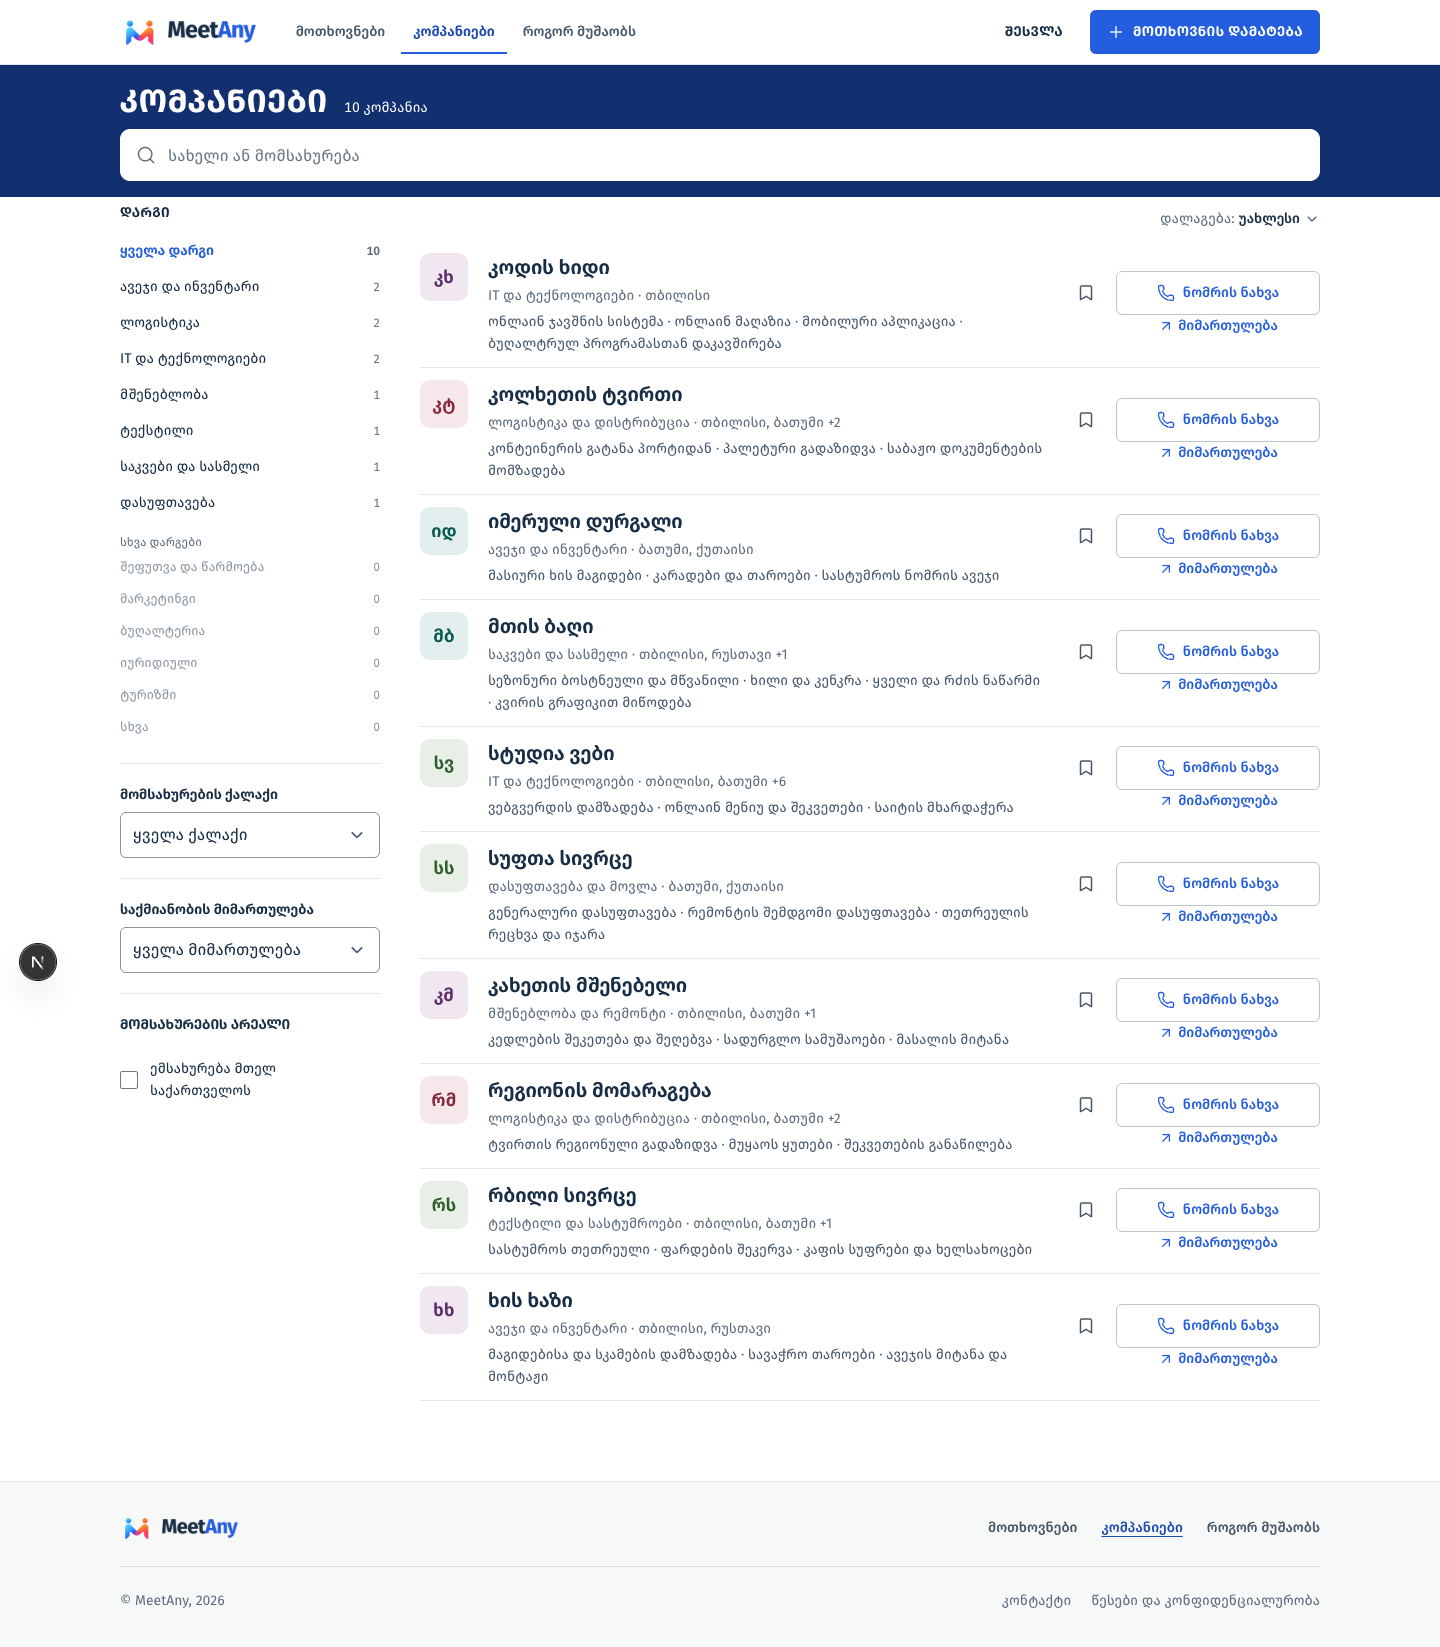
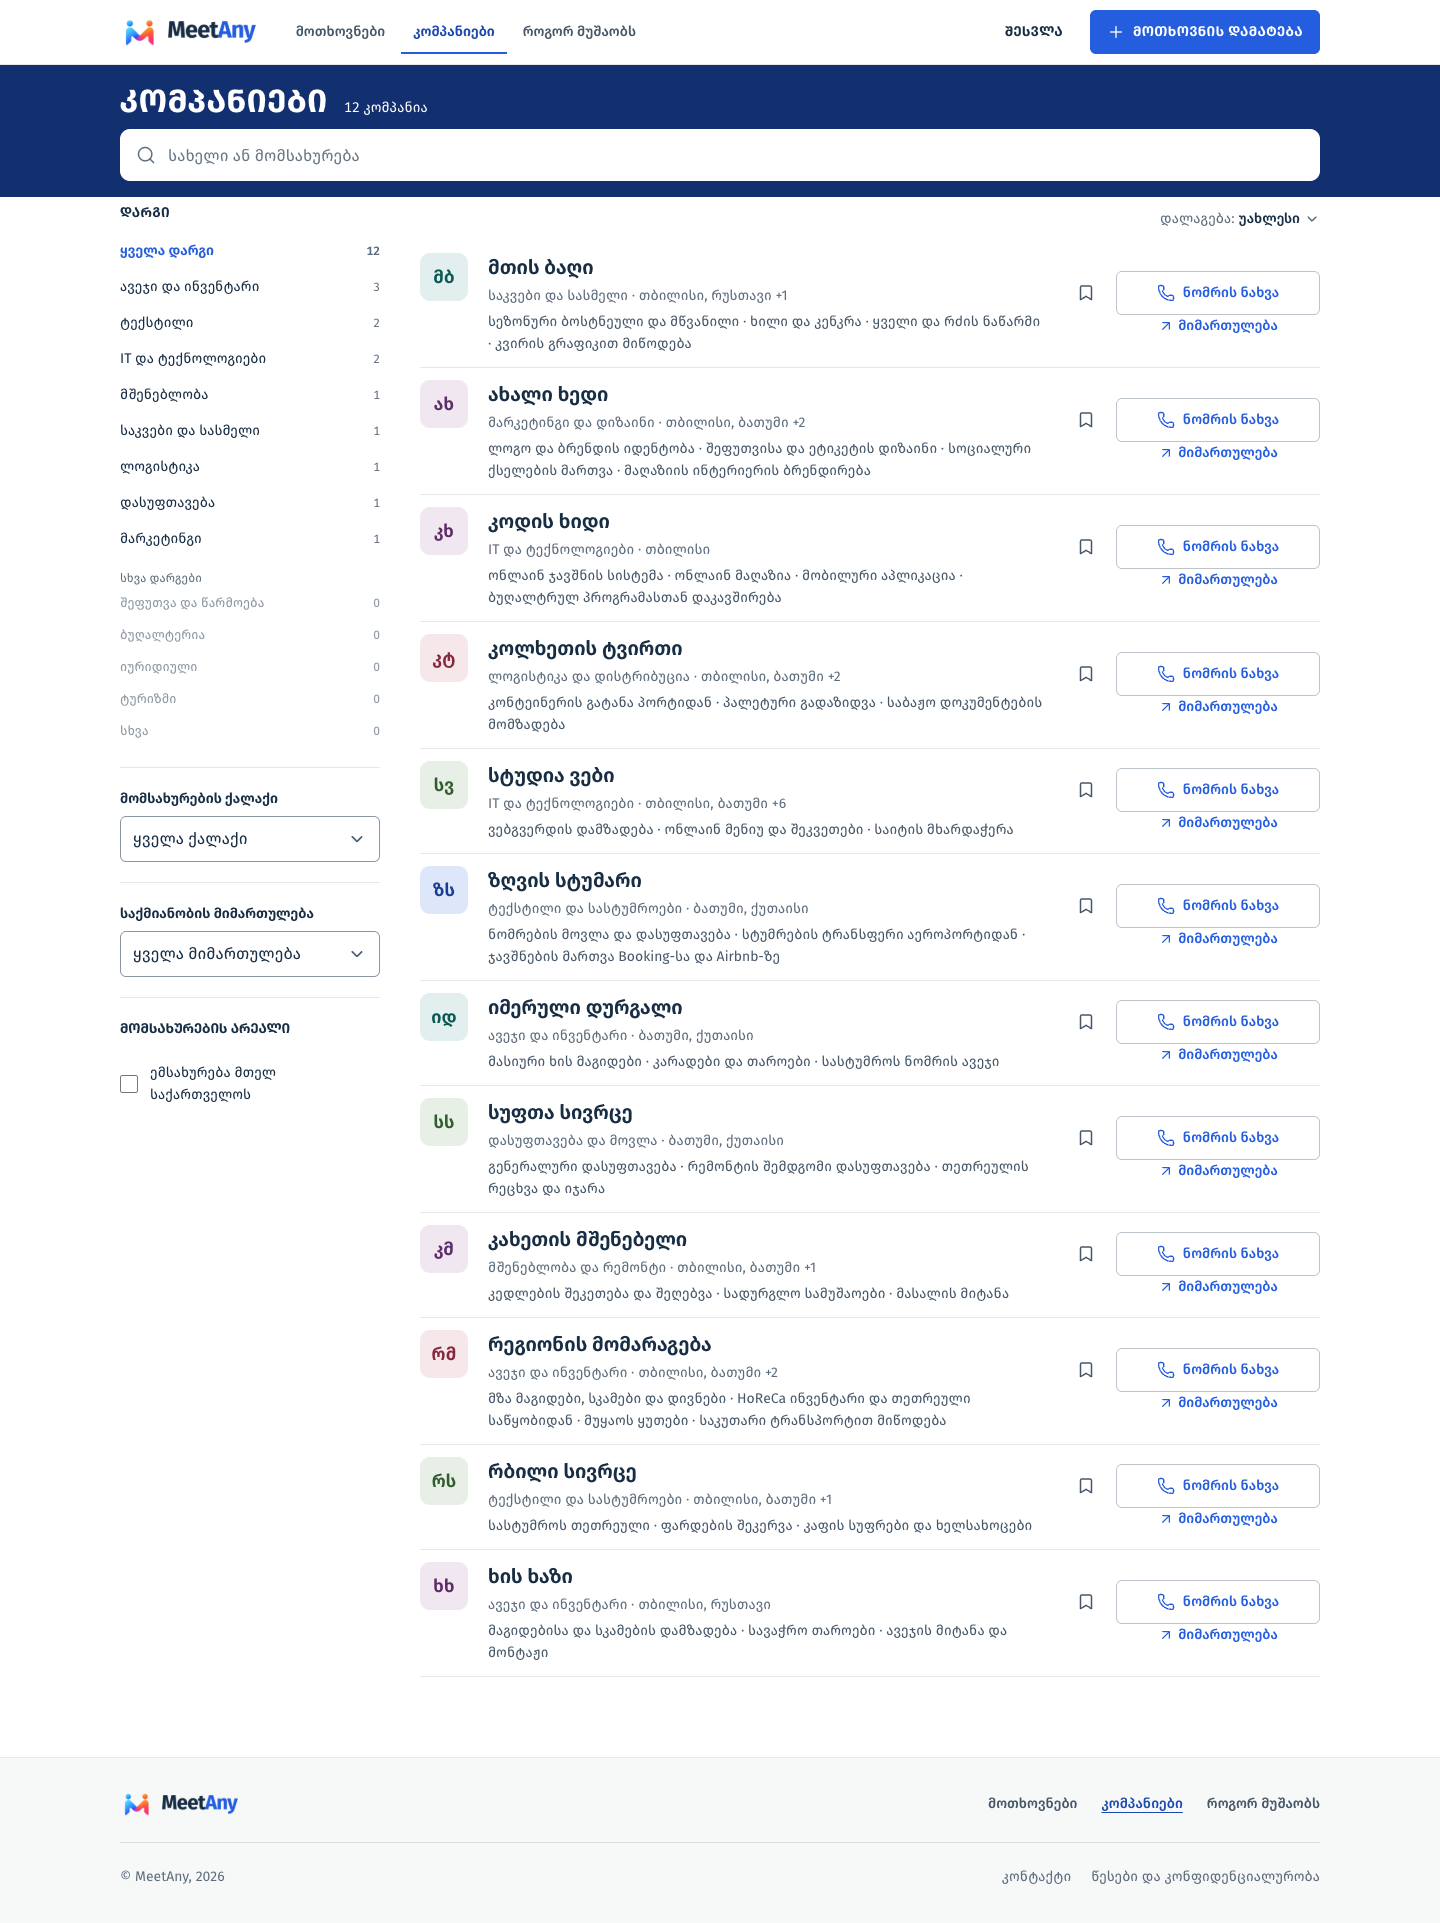
P11 T11.8d: demo content round 4 — varied offer counts, twelve companies
DevApp-Thread: დემო-შინაარსი 4

diff --git a/web/qa/DEMO-CONTENT-GE.md b/web/qa/DEMO-CONTENT-GE.md
@@ -156,3 +156,24 @@
 **#1 მიზეზი — UI, არა მონაცემი.** 6-ვე (ახლა 10-ვე) კომპანიას `phone` ჰქონდა; სტუმრისთვის `/api/db/profiles?select=id,phone` → 200. პროფილზე „ნომრის ნახვა“ იხატება მხოლოდ მეორე, ცალკე fetch-ის შემდეგ (`usePublicPhone`, `CompanyProfilePageContent.tsx:37,70`): dev :3001-ზე 0.7/1.5/3 წმ-ზე ღილაკი არაა, 6 წმ-ზე — არის. მიღების სკრიპტი კადრს ~0.7 წმ-ში იღებდა. ღილაკს ადგილი არ აქვს დარეზერვებული (მოგვიანებით ჩნდება „მიწერის“ წინ) — ეს UI-ს საკითხია, არ შემიცვლია.
 
 კადრები: `qa/shots/ideal-0924/companies-{1440,390}.png`, `companies-1440-phone-open.png` (`ideal-shots.mjs companies`), `inbox-1440.png` + `inbox-390-{list,thread}.png`, `inbox-empty-1440.png`, `companies-1440-avatars.png` (`inbox-shots.mjs`, დემო კლიენტი hotel); ძველები → `v5/`. overflow 0, pageerror 0.
+
+## ზ. მეოთხე რაუნდი (2026-09-24, T11.8d)
+
+მიზანი: `qa/acceptance/catalogs-v2.md` #2 (ერთი და იგივე შეთავაზებების რაოდენობა ≥3 რიგზე) და #3 (რეილში „2“ ×3, „1“ ×4). იგივე `seed-demo-v2.cjs`, იგივე გარდები (auth-probe ჰოსტი + localhost :3001), ბექაპი `DEMO-ACCOUNTS-r4.local.bak.md` (gitignored, 0600), ჯერ `--dry-run` (0 მოთხოვნა გადასაქმნელი, 2 ახალი ანგარიში, 42 შეთავაზება). web/hotel-ის როტირებული პაროლები ledger-იდან წაიკითხა, არაფერი დაბეჭდილა.
+
+| რა | შედეგი |
+| --- | --- |
+| ახალი კომპანიები | 2: `ads` „ახალი ხედი“ (მარკეტინგის სააგენტო, თბილისი, ინიციალი „ᲐᲮ“, 592…, ვერიფიცირებული), `stay` „ზღვის სტუმარი“ (სასტუმროების მომსახურება, ბათუმი, „ᲖᲡ“, 598…); სულ 12 კომპანია, 19 ანგარიში; ტელეფონი 12/12 |
+| დარგის ცვლილება | `supply` „რეგიონის მომარაგება“ ლოგისტიკიდან → „ავეჯი და ინვენტარი“ (HoReCa-ს საბითუმო მომწოდებელი: მზა ავეჯი, თეთრეული, შეფუთვა საწყობიდან, საკუთარი ტრანსპორტით — მისი არსებული შეთავაზებები ამას ემთხვევა); about/offers განახლდა. `stay` → „ტექსტილი და სასტუმროები“ (ცალკე „ტურიზმი“ მეცხრე დარგი და მეექვსე „1“ იქნებოდა) |
+| რეილი | ავეჯი 3 (wood, oak, supply), ტექსტილი 2 (linen, stay), IT 2 (web, code), მშენებლობა 1, საკვები 1, ლოგისტიკა 1, დასუფთავება 1, მარკეტინგი 1 → 3/2/2/1/1/1/1/1 |
+| შეთავაზებები მოთხოვნაზე | 24 → 42 (+18). სოფები 6, მაგიდები 6, გადაზიდვა 5, 3 პალეტი კვირაში 5, სკამები 4, შეღებვა 4, ვებგვერდი 3, R1 3 (დახურული), დასუფთავება 2, ყუთები 2, თაროები 1, ფარდები 1, ბოსტნეული 0, სუფრები 0 → 0–6, თითო რიცხვი ≤2 რიგზე |
+| ახალი შეთავაზებები | მხოლოდ შესაბამისი/მომიჯნავე დარგიდან (მაგ. `ads` → ყუთის დიზაინი, კლინიკის საიტის შინაარსი, მაღაზიის ბრენდირება; `stay` → სასტუმროს დასუფთავება, ლობიდან დარჩენილი დივნები); 1–3 წინადადება, ფასის გარეშე, ვადა 2–30 დღე; `created_at` მოთხოვნიდან 2–72 სთ-ში (code-ის ვებგვერდის შეთავაზება 175 → 60 სთ) |
+| გაგზავნილი | supply 7, wood 6, build 6, cleaning 5, oak 5, linen 4, ads 3, port 2, stay 2, web 1, code 1, **food 0** |
+| `profiles.created_at` | wood 92, linen 78, supply 64, build 51, cleaning 37, oak 30, stay 26, web 23, port 19, code 11, ads 8, food 4 დღე (oak/port/code/food გადაიწია, რომ ყოველი კომპანია პირველ შეთავაზებამდე შემოსულიყო) |
+| SQL (ერთი ტრანზაქცია, წინასწარი count-ით) | requests 14, offers 42, phones 0, profiles.created_at 12, messages 0 |
+
+`--verify` ახლა ამოწმებს: შეთავაზება 2–72 სთ-ში, დუბლი არაა, შეთავაზებების რაოდენობა ≤2 მოთხოვნაზე, დარგების რაოდენობა (1-ის გარდა) ≤2 დარგზე, ≥1 კომპანიას შეთავაზება არ გაუგზავნია. შედეგი: `offerCounts {0:2,1:2,2:2,3:2,4:2,5:2,6:2}`, fresh 4, checks passed.
+
+კადრები: `qa/shots/ideal-0924/requests-{1440,390}.png`, `companies-{1440,390}.png`, `*-390-fold.png`, `companies-1440-phone-open.png` (`ideal-shots.mjs`); ძველები → `v8/`. overflow 0, pageerror 0. 1440-ზე მარჯვენა სვეტი: 2, 5, 4, 3, 1, 1, —, —, 6, 4, 2, 5, 6.
+
+**UI-სთვის (არ შემიცვლია):** რეილში `textiles` იწერება მოკლედ „ტექსტილი“, ბარათზე კი „ტექსტილი და სასტუმროები“ — „ზღვის სტუმარი“ რეილის „ტექსტილში“ ცოტა უცნაურად ჩანს; გრძელი ლეიბლი ან სხვა დაჯგუფება — კოდის საკითხია.
